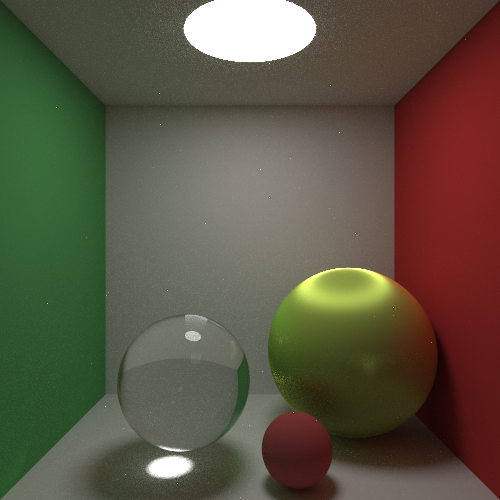
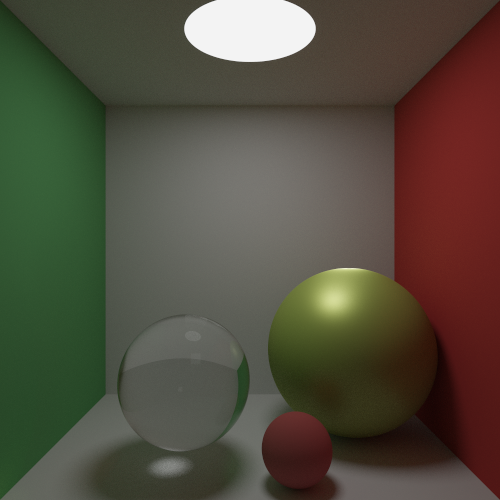
update README.md images

diff --git a/src/scene.rs b/src/scene.rs
@@ -476,6 +476,93 @@ impl Scene {
         (camera, scene)
     }
 
+    pub fn test_plastic() -> (PerspectiveCamera, Scene) {
+        let mut primitives: Vec<Box<dyn Primitive>> = Vec::new();
+        let mut lights: Vec<Box<dyn Light>> = Vec::new();
+
+        // init the cornell box
+        let object_to_world = Transform::translate(Vector3::new(10.0, 0.0, 0.0)) * Transform::rotate_y(90.0);
+        let world_to_object = object_to_world.inverse();
+        let right_wall = Disk::new(object_to_world, world_to_object, 150.0);
+        let matte_material = Matte::new(Box::new(ConstantTexture::new(Spectrum::new(0.65, 0.05, 0.05))));
+        let right_wall = GeometricPrimitive::new(Box::new(right_wall), Arc::new(matte_material));
+        primitives.push(Box::new(right_wall));
+
+        let object_to_world = Transform::translate(Vector3::new(-10.0, 0.0, 0.0)) * Transform::rotate_y(90.0);
+        let world_to_object = object_to_world.inverse();
+        let left_wall = Disk::new(object_to_world, world_to_object, 150.0);
+        let matte_material = Matte::new(Box::new(ConstantTexture::new(Spectrum::new(0.12, 0.45, 0.15))));
+        let left_wall = GeometricPrimitive::new(Box::new(left_wall), Arc::new(matte_material));
+        primitives.push(Box::new(left_wall));
+
+        let object_to_world = Transform::translate(Vector3::new(0.0, 0.0, 30.0));
+        let world_to_object = object_to_world.inverse();
+        let back_wall = Disk::new(object_to_world, world_to_object, 150.0);
+        let matte_material = Matte::new(Box::new(ConstantTexture::new(Spectrum::new(0.73, 0.73, 0.73))));
+        let back_wall = GeometricPrimitive::new(Box::new(back_wall), Arc::new(matte_material));
+        primitives.push(Box::new(back_wall));
+
+        let object_to_world = Transform::translate(Vector3::new(0.0, 10.0, 0.0)) * Transform::rotate_x(90.0);
+        let world_to_object = object_to_world.inverse();
+        let upper_wall = Disk::new(object_to_world, world_to_object, 150.0);
+        let matte_material = Matte::new(Box::new(ConstantTexture::new(Spectrum::new(0.73, 0.73, 0.73))));
+        let upper_wall = GeometricPrimitive::new(Box::new(upper_wall), Arc::new(matte_material));
+        primitives.push(Box::new(upper_wall));
+
+        let object_to_world = Transform::translate(Vector3::new(0.0, -10.0, 0.0)) * Transform::rotate_x(-90.0);
+        let world_to_object = object_to_world.inverse();
+        let bot_wall = Disk::new(object_to_world, world_to_object, 150.0);
+        let matte_material = Matte::new(Box::new(ConstantTexture::new(Spectrum::new(0.8, 0.8, 0.8))));
+        let bot_wall = GeometricPrimitive::new(Box::new(bot_wall), Arc::new(matte_material));
+        primitives.push(Box::new(bot_wall));
+
+
+        // place objects inside the box
+        let object_to_world = Transform::translate(Vector3::new(0.0, -6.0, 20.0)) * Transform::rotate_x(90.0);
+        let world_to_object = object_to_world.inverse();
+        let sphere = Sphere::new(object_to_world, world_to_object, 3.0);
+        let metal_material = Plastic::new(0.02, Spectrum::new(0.2, 0.2, 0.3), Spectrum::new(0.2, 0.2, 0.3));
+        let ball = GeometricPrimitive::new(Box::new(sphere), Arc::new(metal_material));
+        primitives.push(Box::new(ball));
+
+        // lights
+        // let object_to_world4 = Transform::translate(Vector3::new(0.0, 9.9999, 20.0)) * Transform::rotate_x(90.0);
+        // let world_to_object4 = object_to_world4.inverse();
+        // let disk_light = Disk::new(object_to_world4, world_to_object4, 3.0);
+        // let disk_light = AreaLight::new(Box::new(disk_light), Spectrum::new(10.0, 10.0, 10.0));
+        // lights.push(Box::new(disk_light));
+
+        // let object_to_world5 = Transform::translate(Vector3::new(3.0, -3.0, 15.0));
+        let object_to_world5 = Transform::translate(Vector3::new(3.0, -2.0, 15.0));
+        let world_to_object5 = object_to_world5.inverse();
+        let sphere_light = Sphere::new(object_to_world5, world_to_object5, 0.2);
+        let sphere_light = AreaLight::new(Box::new(sphere_light), Spectrum::new(50.0, 50.0, 50.0));
+        lights.push(Box::new(sphere_light));
+
+        let bvh = BVH::new(primitives);
+        let scene = Scene::new(lights, Box::new(bvh));
+
+        // camera
+        const WIDTH: usize = 500;
+        const HEIGHT: usize = 500;
+        const FRAME: f64 = WIDTH as f64 / HEIGHT as f64;
+
+        let pos = Vector3::new(0.0, 0.0, 0.0);
+        let look = Vector3::new(0.0, 0.0, 1.0);
+        let up = Vector3::new(0.0, 1.0, 0.0);
+        let camera_to_world = Transform::look_at(pos, look, up).inverse();
+
+        let camera = PerspectiveCamera::new(
+            camera_to_world,
+            (Point2::new(-FRAME, -1.0), Point2::new(FRAME, 1.0)),
+            0.0,
+            1.0,
+            60.0,
+            Film::new(WIDTH, HEIGHT),
+        );
+
+        (camera, scene)
+    }
 //     pub fn test_layerd_diffuse() -> (PerspectiveCamera, Scene) {
 //         let mut primitives: Vec<Box<dyn Primitive>> = Vec::new();
 //         let mut lights: Vec<Box<dyn Light>> = Vec::new();

diff --git a/src/accelerator/bvh.rs b/src/accelerator/bvh.rs
@@ -187,12 +187,8 @@ impl BVHNode {
     }
 
     fn is_leaf(&self) -> bool {
-        if let None = self.l_child {
-            if let None = self.r_child {
-                true
-            } else {
-                false
-            }
+        if let (None, None) = (&self.l_child, &self.r_child) {
+            true
         } else {
             false
         }
@@ -200,8 +196,9 @@ impl BVHNode {
 
     fn intersect(&self, r: &mut crate::geometry::ray::Ray, primitives: &Vec<Box<dyn Primitive>>) -> Option<crate::geometry::interaction::SurfaceInteraction> {
         if let Some(_) = self.bound.intersect_p(r) {
+            // hit the bounding box
             if self.is_leaf() {
-                // check the actual objects
+                // check all objects inside the box
                 let mut res = None;
                 
                 for index in self.prim_indexes.iter() {

diff --git a/src/main.rs b/src/main.rs
@@ -107,7 +107,7 @@ fn main() {
     // scene configuration
     let s_configure = std::time::Instant::now();
 
-    let (camera, scene) = Scene::test_microfacet();
+    let (camera, scene) = Scene::test_bunny();
 
     let configure_cost = s_configure.elapsed().as_millis();
     println!("CONFIGURATION COST: {} secs", (configure_cost as f64) / 1000.0);
@@ -157,7 +157,7 @@ fn render(integrator: PathIntegrator, scene: Scene, filename: &Path) {
                         let sample = CameraSample::new(Point2::new(j as f64 + random::<f64>(), i as f64 + random::<f64>()), 0.0);
                         let mut r = int.camera.generate_ray(sample);
 
-                        radiance += int.li(&mut r, &scene);
+                        radiance += int.li(&mut r, &scene).tone_mapping();
                     }
 
                     radiance /= int.n_sample as f64 * int.n_thread as f64;

diff --git a/src/material/plastic.rs b/src/material/plastic.rs
@@ -24,7 +24,7 @@ impl Material for Plastic {
         // let (ss, ts) = perpendicular(isect.geo.n);
 
         let alpha = MicrofacetDistribution::roughness_to_alpha(self.roughness);
-        let distribution = MicrofacetDistribution::TrowbridgeReitz { alpha_x: alpha, alpha_y: alpha };
+        let distribution = MicrofacetDistribution::TrowbridgeReitz { alpha_x: alpha , alpha_y: alpha };
         // let fresnel = Box::new(FresnelSpecular::new(1.0, 1.5, Spectrum::new(1.0, 1.0, 1.0), Spectrum::new(1.0, 1.0, 1.0)));
         let fresnel = Box::new(FresnelNoOp::new());
         // let fresnel = Box::new(FresnelSchlick::new(1.0, 1.5));

diff --git a/src/spectrum.rs b/src/spectrum.rs
@@ -28,6 +28,14 @@ impl RGBSpectrum {
         Pixel::new(r, g, b)
     }
 
+    pub fn tone_mapping(&self) -> RGBSpectrum {
+        RGBSpectrum::new(
+            self.r / (self.r + 1.0),
+            self.g / (self.g + 1.0),
+            self.b / (self.b + 1.0),
+        )
+    }
+
     pub fn skyblue(t: f64) -> RGBSpectrum {
         (1.0-t) * RGBSpectrum::new(1.0, 1.0, 1.0) + t * RGBSpectrum::new(0.5, 0.7, 1.0)
     }

diff --git a/README.md b/README.md
@@ -28,11 +28,11 @@ a ray tracer written while reading *Physically Based Rendering*.
 ### Current Result
 1000 samples per pixel
 
+  ![](two_bunny.png)
+
   ![](cornell_box.png)
 
-  ![兔子](bunny_correct.png)
-
-  ![](two_bunny.png)
+  ![microfacet](microfacet2.png)
 
   ![microfacet](microfacet.png)
 
